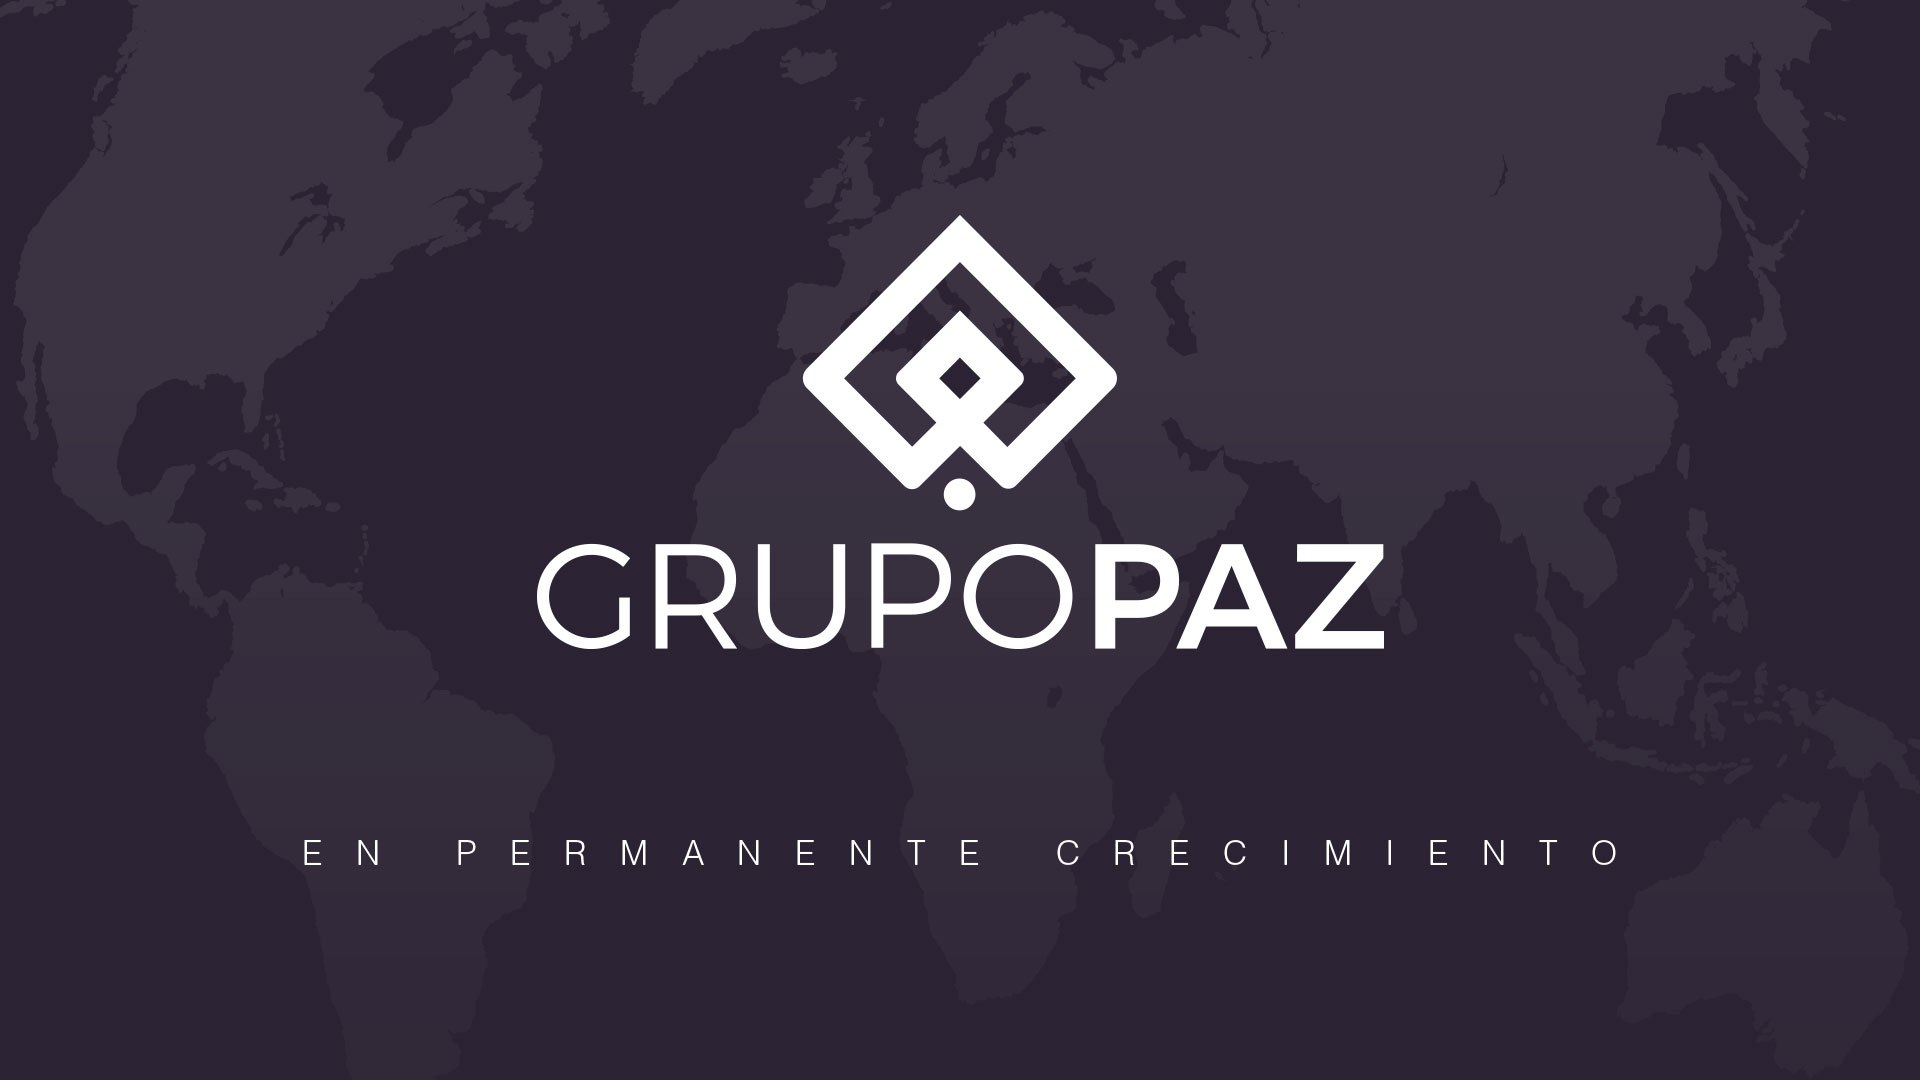
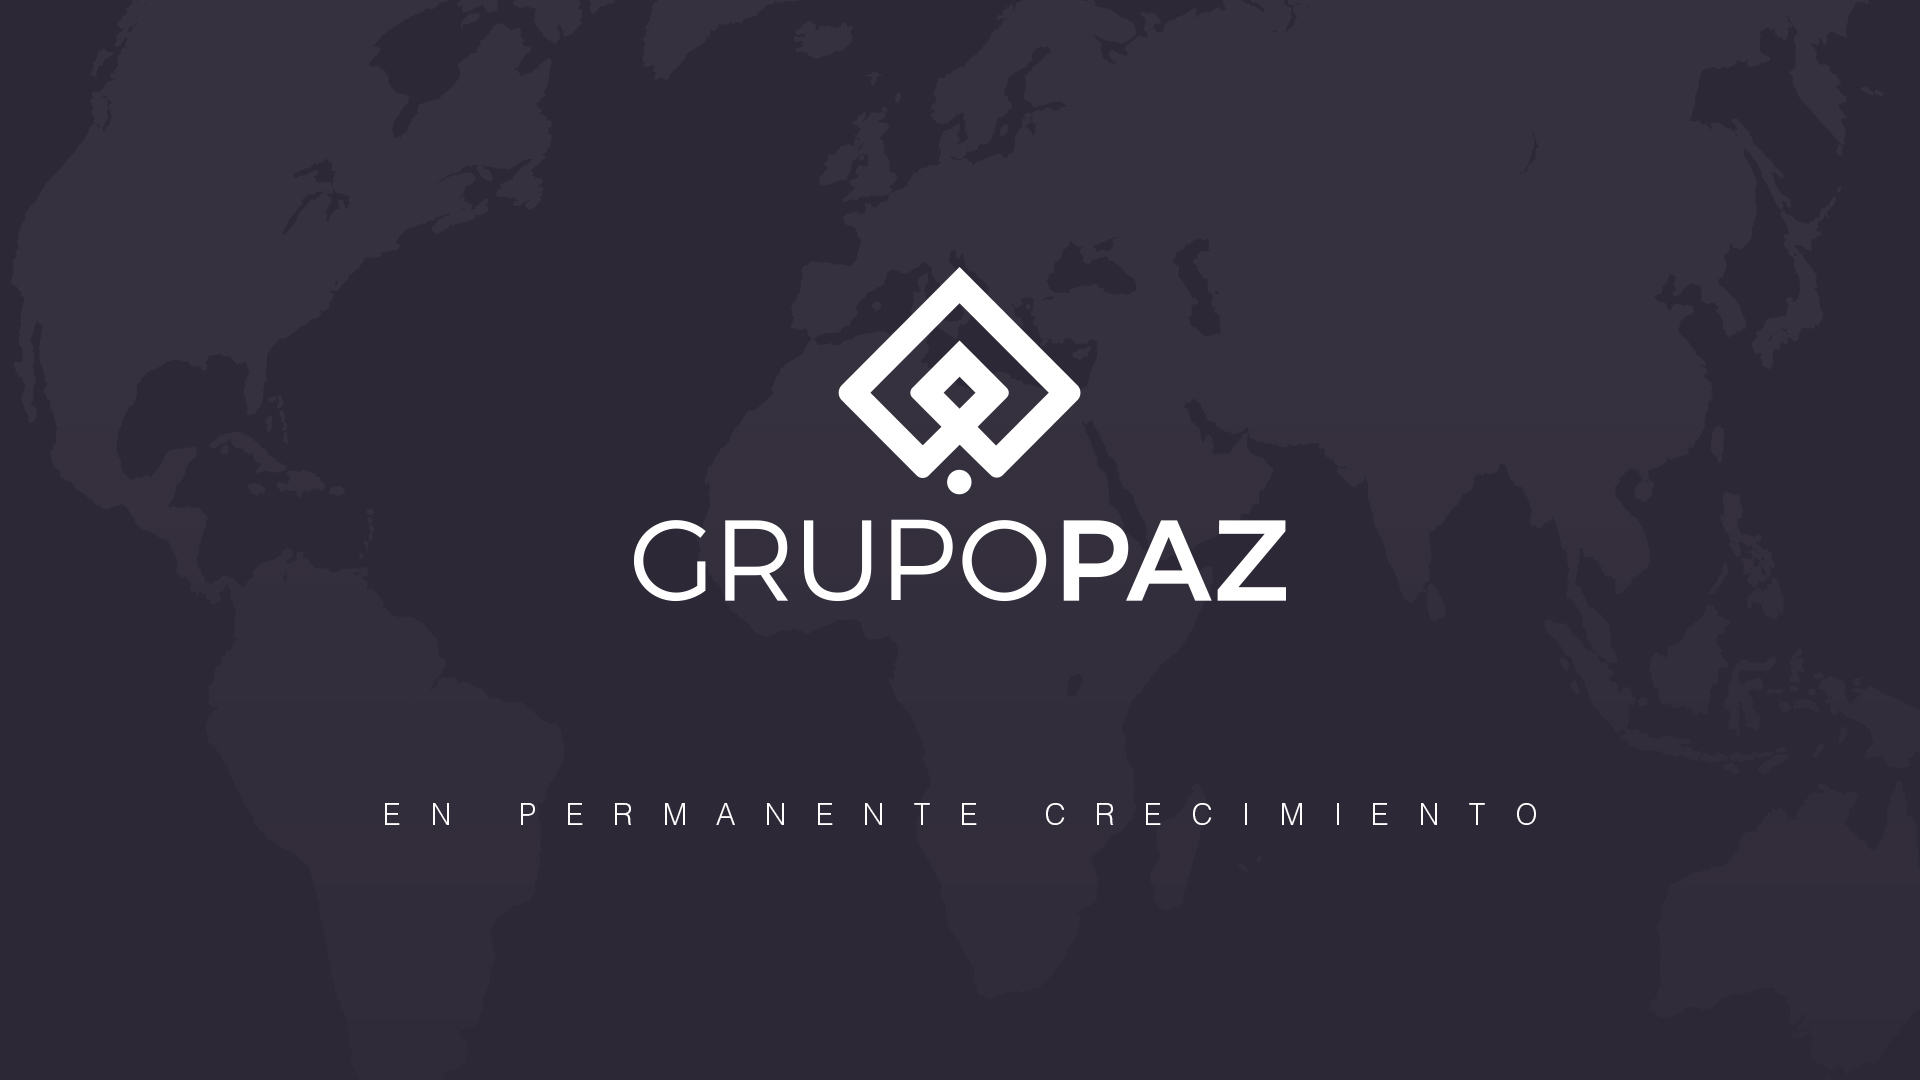
Add new pictures and change color of web site

diff --git a/index.html b/index.html
@@ -174,7 +174,7 @@
 							 data-param4="" data-param5="" data-param6="" data-param7="" data-param8="" data-param9="" data-param10=""
 							 data-description="">
 								<!-- MAIN IMAGE -->
-								<img src="images/slider_gp01.jpg" alt="" data-bgposition="center center" data-bgfit="cover" data-bgrepeat="no-repeat"
+								<img src="images/index.jpg" alt="" data-bgposition="center center" data-bgfit="cover" data-bgrepeat="no-repeat"
 								 data-bgparallax="10" class="rev-slidebg" data-no-retina>
 								<!-- LAYERS -->
 								<!-- <div class="tp-caption tp-resizeme whitecolor text-center" data-x="['center','center','center','center']" data-hoffset="['0','0','0','0']" data-y="['227','227','150','150']" data-voffset="['0','0','0','0']" data-whitespace="nowrap" data-transform_idle="o:1;" data-transform_in="z:0;rX:0;rY:0;rZ:0;sX:0.9;sY:0.9;skX:0;skY:0;opacity:0;s:1500;e:Power3.easeInOut;" data-transform_out="y:[100%];s:1000;e:Power2.easeInOut;s:1000;e:Power2.easeInOut;" data-mask_out="x:inherit;y:inherit;s:inherit;e:inherit;" data-start="1000" data-splitin="none" data-splitout="none" data-responsive_offset="on">
@@ -263,19 +263,59 @@
 			<!-- /Main Slider Section -->
 		</header>
 
-		<!-- /Header Section -->
-		<!-- Half Section -->
-		<section class="half_section_main bg_grey main_color" id="skill_section">
+		<section class="sponsors_section big_padding" id="empresas">
+			<div class="container">
+				<h3 class="default_section_heading raleway text-white text-center">
+					<span class="font_200"></span> Empresas
+					<span class="font_200"> del Grupo </span>
+				</h3>
+				<hr class="default_divider text-center divider_white">
+				<div class="row">
+					<div class="col-md-2 col-md-offset-1 companies_frame">
+						<img src="images/companies/INMOBILIARIO-WEB.jpg" width="100%" alt="inmobiliaria">
+						<a href="#" data-toggle="modal" data-target=".modal-celina"><img src="images/companies/celina-WEB.jpg" class="company-frame" width="100%" alt="celina"></a>
+						<a href="#" data-toggle="modal" data-target=".modal-brisasdepaz"><img src="images/companies/brisasdepaz-WEB.jpg" class="company-frame" width="100%" alt="brisasdepaz"></a>
+						<a href="#" data-toggle="modal" data-target=".modal-celinahogar"><img src="images/companies/celinahogar-WEB.jpg" class="company-frame" width="100%" alt="celinahogar"></a>
+					</div>
+					<div class="col-md-2 companies_frame">
+						<img src="images/companies/AGRICOLA-WEB.jpg" width="100%" alt="agrícola">
+						<a href="#" data-toggle="modal" data-target=".modal-paraiso"><img src="images/companies/paraiso-WEB.jpg" class="company-frame" width="100%" alt="paraiso"></a>
+						<a href="#" data-toggle="modal" data-target=".modal-gatbolivia"><img src="images/companies/gatbolivia-WEB.jpg" class="company-frame" width="100%" alt="gatbolivia"></a>
+						<a href="#" data-toggle="modal" data-target=".modal-ganaderia"><img src="images/companies/ganaderia-WEB.jpg" class="company-frame" width="100%" alt="ganaderia"></a>
+					</div>
+					<div class="col-md-2 companies_frame">
+						<img src="images/companies/CONSTRUCCIÓN-WEB.jpg" width="100%" alt="construpaz">
+						<a href="#" data-toggle="modal" data-target=".modal-construpaz"><img src="images/companies/construpaz-WEB.jpg" class="company-frame" width="100%" alt="construpaz"></a>
+						<a href="#" data-toggle="modal" data-target=".modal-dicons"><img src="images/companies/dicons-WEB.jpg" class="company-frame" width="100%" alt="dicons"></a>
+					</div>
+					<div class="col-md-2 companies_frame">
+						<img src="images/companies/INDUSTRIA-WEB.jpg" width="100%" alt="industria">
+						<a href="#" data-toggle="modal" data-target=".modal-bragantina"><img src="images/companies/bragantina-WEB.jpg" class="company-frame" width="100%" alt="bragantina"></a>
+						<a href="#" data-toggle="modal" data-target=".modal-biofood"><img src="images/companies/biofood-WEB.jpg" class="company-frame" width="100%" alt="biofood"></a>
+						<a href="#" data-toggle="modal" data-target=".modal-pacusito"><img src="images/companies/pacusito-WEB.jpg" class="company-frame" width="100%" alt="pacusito"></a>
+					</div>
+					<div class="col-md-2 companies_frame">
+						<img src="images/companies/TECNOLOGÍA-WEB.jpg" width="100%" alt="tecnologia">
+						<a href="#" data-toggle="modal" data-target=".modal-ticketeg"><img src="images/companies/ticketeg-WEB.jpg" class="company-frame" width="100%" alt="ticketeg"></a>
+						<a href="#" data-toggle="modal" data-target=".modal-multipago"><img src="images/companies/multipago-WEB.jpg" class="company-frame" width="100%" alt="multipago"></a>
+						<a href="#" data-toggle="modal" data-target=".modal-galileo"><img src="images/companies/galileo-WEB.jpg" class="company-frame" width="100%" alt="galileo"></a>
+					</div>
+				</div>
+			</div>
+			
+		</section>
+
+		<section class="half_section_main bg_grey" id="skill_section">
 			<div class="half_section_picture hidden-sm hidden-xs"></div>
 			<div class="container container_big">
 
 				<div class="row">
 					<div class="col-md-6 col-md-offset-6">
 						<div class="side_section_text big_padding">
-							<p class="default_small_heading raleway text-white font_200">Provenimos de una</p>
-							<h3 class="default_section_heading raleway text-white">Tradición <span class="font_200"> familiar </span></h3>
-							<hr class="default_divider divider_white " style="margin-left: 0;">
-							<p class="text-white default_text open_sans">
+							<p class="default_small_heading raleway blue_color font_200">Provenimos de una</p>
+							<h3 class="default_section_heading raleway navy_blue">Tradición <span class="font_200"> familiar </span></h3>
+							<hr class="default_divider default_divider_blue " style="margin-left: 0;">
+							<p class="default_text_light default_text open_sans">
 								Rosendo Paz Parada y Roberto Paz Parada, hermanos gemelos, conocidos en Santa Cruz simplemente como “Los Tojos
 								Paz”, nacieron en esta tierra oriental el año 1900. Ya para el año 1940 don Rosendo adquirió de don Jorge
 								Reymers la propiedad agrícola conocida entonces como “Santa Martha”, en Saavedra.<br><br>La hacienda Santa
@@ -300,6 +340,7 @@
 				<path d="M0 30 L0 90 L100 30 V100 H0" style="fill: #4e4657"></path>
 			</svg>
 		</section>
+
 		<section class="combined_skills_section big_padding">
 
 			<section class="skill_section">
@@ -629,83 +670,7 @@
 			</section>
 		</section>
 
-		<section class="sponsors_section" id="empresas">
-			<div class="container">
-				<h3 class="default_section_heading raleway text-white text-center">
-					<span class="font_200"> Las </span> Empresas
-					<span class="font_200"> del Grupo </span>
-				</h3>
-				<hr class="default_divider text-center divider_white default_divider_big">
-				<div class="sponsors_slider swiper-container">
-					<div class="swiper-wrapper">
-						<!-- Slides -->
-						<div class="swiper-slide">
-							<div class="image">
-								<a href="#"> <img src="images/empresa1.jpg" class="img-responsive" alt="we work"></a>
-							</div>
-						</div>
-						<div class="swiper-slide">
-							<div class="image">
-								<a href="#"> <img src="images/empresa2.jpg" class="img-responsive" alt="we work"></a>
-							</div>
-						</div>
-						<div class="swiper-slide">
-							<div class="image">
-								<a href="https://www.ticketeg.com"> <img src="images/empresa3.jpg" class="img-responsive" alt="we work"></a>
-							</div>
-						</div>
-						<div class="swiper-slide">
-							<div class="image">
-								<a href="#"> <img src="images/empresa4.jpg" class="img-responsive" alt="we work"></a>
-							</div>
-						</div>
-						<div class="swiper-slide">
-							<div class="image">
-								<a href="https://multipago.bo"> <img src="images/empresa5.jpg" class="img-responsive" alt="we work"></a>
-							</div>
-						</div>
-						<div class="swiper-slide">
-							<div class="image">
-								<a href="http://brisasdepaz.com.bo"> <img src="images/empresa6.jpg" class="img-responsive" alt="we work"></a>
-							</div>
-						</div>
-						<div class="swiper-slide">
-							<div class="image">
-								<a href="http://celina.com.bo"> <img src="images/empresa7.jpg" class="img-responsive" alt="we work"></a>
-							</div>
-						</div>
-						<div class="swiper-slide">
-							<div class="image">
-								<a href="#"> <img src="images/empresa8.jpg" class="img-responsive" alt="we work"></a>
-							</div>
-						</div>
-						<div class="swiper-slide">
-							<div class="image">
-								<a href="#"> <img src="images/empresa9.jpg" class="img-responsive" alt="we work"></a>
-							</div>
-						</div>
-
-						<div class="swiper-slide">
-							<div class="image">
-								<a href="#"> <img src="images/empresa10.jpg" class="img-responsive" alt="we work"></a>
-							</div>
-						</div>
-						<div class="swiper-slide">
-							<div class="image">
-								<a href="#"> <img src="images/empresa11.jpg" class="img-responsive" alt="we work"></a>
-							</div>
-						</div>
-						<div class="swiper-slide">
-							<div class="image">
-								<a href="#"> <img src="images/empresa12.jpg" class="img-responsive" alt="we work"></a>
-							</div>
-						</div>
-					</div>
-				</div>
-			</div>
-		</section>
-
-		<section class="team_section big_padding text-center pos_relative" id="team">
+		<section class="team_section text-center pos_relative" id="team">
 			<div class="container">
 				<p class="raleway default_small_heading text-white font_200">Conoce Nuestro</p>
 				<div class="col-xs-12">
@@ -936,7 +901,7 @@
 			</div>
 		</section>
 
-		<footer class="footer_section big_padding secundary_color">
+		<footer class="footer_section padding-footer secundary_color">
 			<div class="container">
 				<div class="footer_detail">
 					<ul class="footer_links text-center">
@@ -962,6 +927,16 @@
 				</div>
 			</div>
 		</footer>
+
+		<!-- COMPANIES MODAL -->
+		<div class="modal fade bd-example-modal-lg modal-celina" role="dialog" aria-labelledby="myLargeModalLabel">
+			<div class="modal-dialog modal-lg">
+				<div class="modal-content">
+					...
+				</div>
+			</div>
+		</div>
+		<!-- END COMPANIES MODAL -->
 	</section>
 
 	<script src="js/jquery.js"></script>

diff --git a/css/style.css b/css/style.css
@@ -1577,7 +1577,7 @@ body.pushmenu-push-toLeft{
 }
 
 .half_section_main .half_section_picture{
-    left: 0;
+    left: 0px;
     background: url(../images/half_section_left_bg.png);
     position: absolute;
     z-index: 1;
@@ -1587,6 +1587,7 @@ body.pushmenu-push-toLeft{
     width: 50%;
     background-repeat: no-repeat;
     background-size: cover;
+    background-position: 30%;
 }
 
 .half_section_main .side_section_text{
@@ -3809,4 +3810,17 @@ ul.packages li i{
 
 .sw_networking{
     color: #4e4657;
+}
+
+.companies_frame{
+    padding: 0;
+    border: 1px solid white;
+}
+
+.company-frame{
+    border: .5px solid #2b2334;
+}
+
+.padding-footer{
+    padding: 20px 0;
 }
